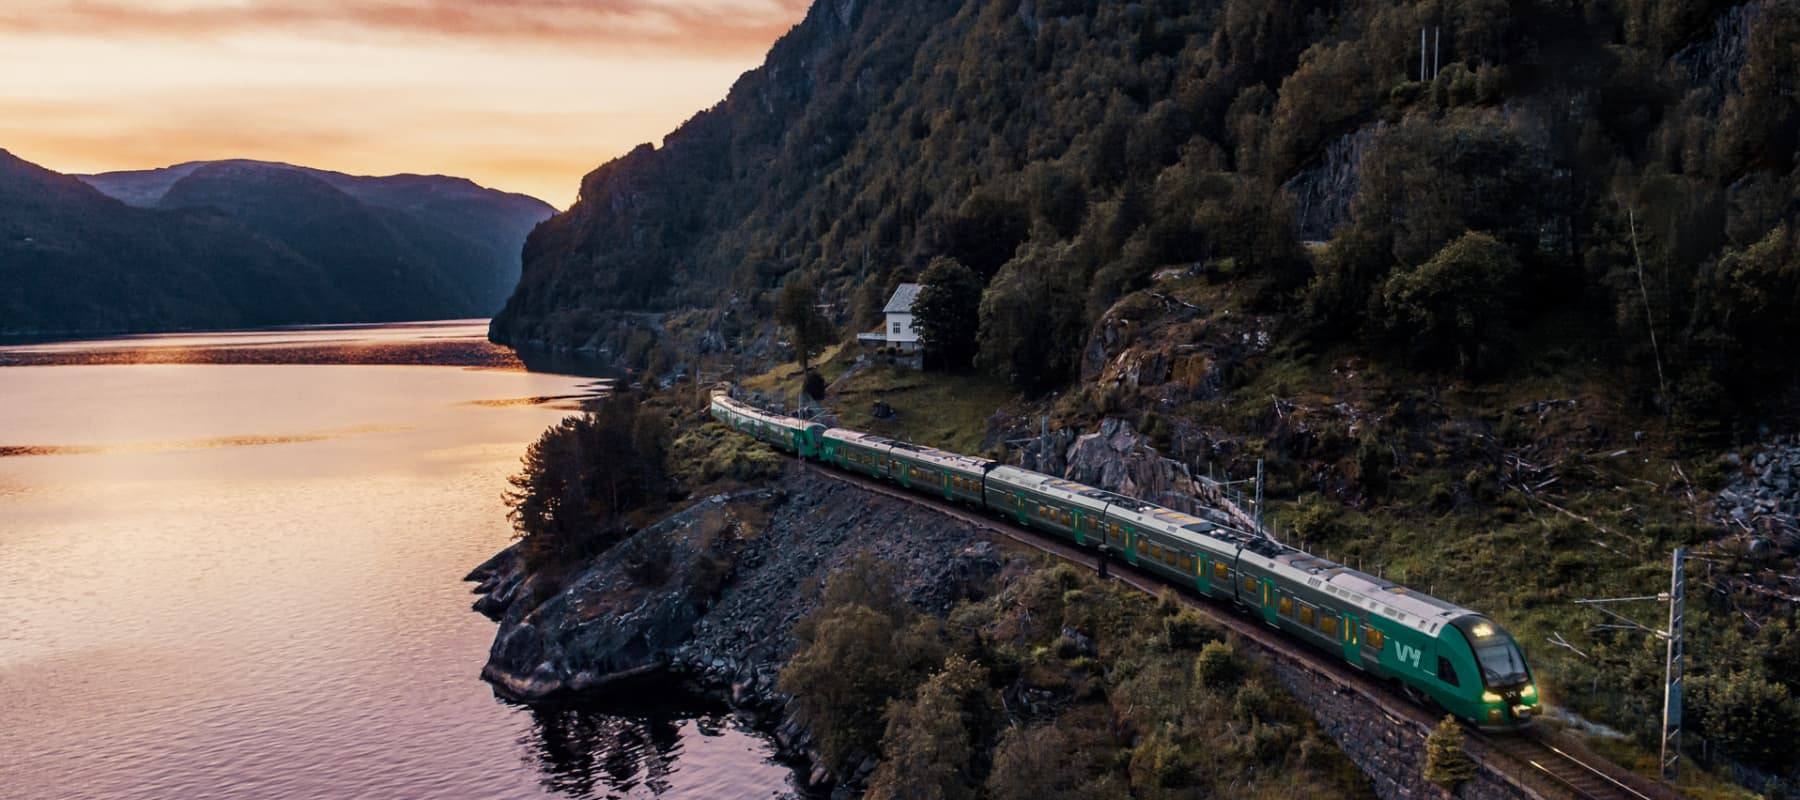
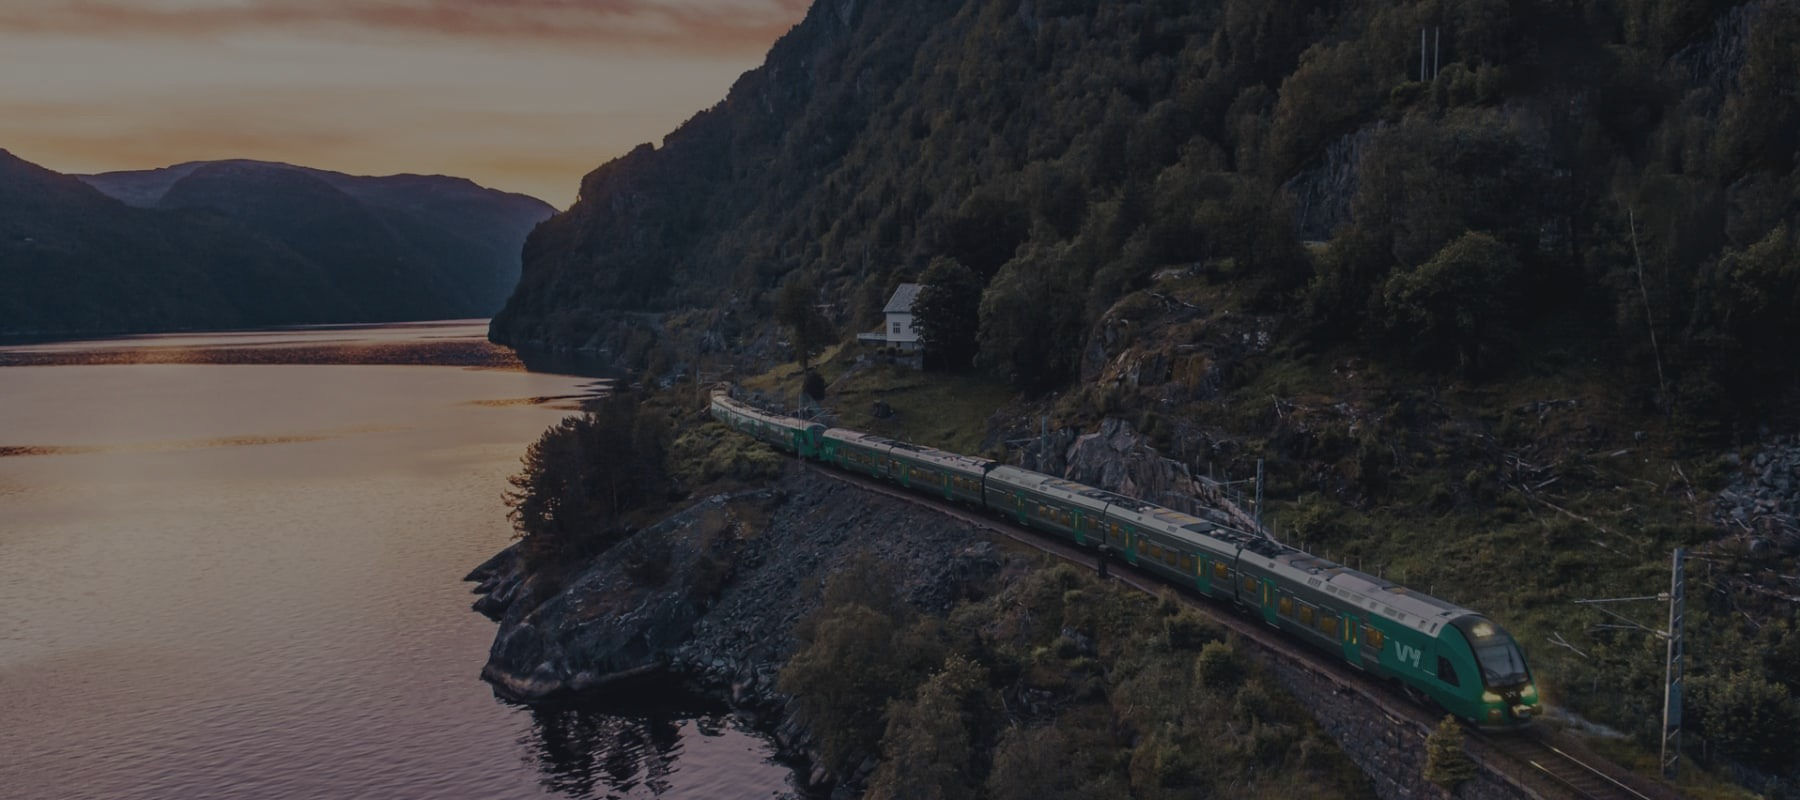
FAQ design bra for nå

diff --git a/ClientApp/src/app/FAQ/FAQ.component.html b/ClientApp/src/app/FAQ/FAQ.component.html
@@ -1,27 +1,29 @@
-<h2 class="text-center">FAQ</h2>
+<h2 class="text-center"><b>F</b>requently <b>A</b>sked <b>Q</b>uestions</h2>
 <h4 class="text-center text-muted">Her ser du mest stilte spørsmål og svar.</h4>
+<div>
+  <ngb-accordion [closeOthers]="true" id="static-1">
+    <ngb-panel id="static-{{question.id}}" *ngFor="let question of alleQuestions">
+      <ng-template ngbPanelHeader>
+        <div class="title">
 
-<ngb-accordion [closeOthers]="true" id="static-1">
-  <ngb-panel id="static-{{question.id}}" *ngFor="let question of alleQuestions">
-    <ng-template ngbPanelHeader>
-      <div class="title">
+          <button ngbPanelToggle class="btn w-100 text-left"><b>{{question.sporsmal}}</b><img src="assets/bilde/vy-logo.png" class="vy-logo"></button>
 
-        <button ngbPanelToggle class="btn w-100 text-left"><b>{{question.sporsmal}}</b><img src="assets/bilde/vy-logo.png" class="vy-logo"></button>
+        </div>
+      </ng-template>
+      <ng-template ngbPanelContent>
+        <div class="text-left">
+          {{question.svar}}
+        </div><br />
+        <span class="liker">
+          {{question.ratingOpp}} <button class="btn btn-success" [disabled]="clickedLike" (click)="endreRating(question.id, question.sporsmal, question.svar, question.ratingOpp, question.ratingNed, 0); clickedLike = true;">Like</button>
+        </span>
+        <span class="disliker">
+          {{question.ratingNed}} <button class="btn btn-danger" [disabled]="clickedDislike" (click)="endreRating(question.id, question.sporsmal, question.svar, question.ratingOpp, question.ratingNed, 1); clickedDislike = true;">Dislike</button>
+        </span>
+      </ng-template>
+    </ngb-panel>
+  </ngb-accordion>
+</div><br />
+      <h5 class="text-center text-muted">Noe annet du lurer på? Send inn gjerne ditt spørsmål <a [routerLink]="['/bruker']">her</a></h5>
 
-      </div>
-    </ng-template>
-    <ng-template ngbPanelContent>
-      <div class="text-left">
-        {{question.svar}}
-      </div><br />
-      <span class="liker">
-        {{question.ratingOpp}} <button class="btn btn-success" [disabled]="clickedLike" (click)="endreRating(question.id, question.sporsmal, question.svar, question.ratingOpp, question.ratingNed, 0); clickedLike = true;">Like</button>
-      </span>
-      <span class="disliker">
-        {{question.ratingNed}} <button class="btn btn-danger" [disabled]="clickedDislike" (click)="endreRating(question.id, question.sporsmal, question.svar, question.ratingOpp, question.ratingNed, 1); clickedDislike = true;">Dislike</button>
-      </span>
-    </ng-template>
-  </ngb-panel>
-</ngb-accordion>
-
-
+<img src="assets/bilde/vy-tog.jpg" class="bakgrunn">

diff --git a/ClientApp/src/app/home/home.component.css b/ClientApp/src/app/home/home.component.css
@@ -5,7 +5,7 @@ header.masthead {
   background-size: cover;
   padding-top: 8rem;
   padding-bottom: 8rem;
-  background-image: url(/assets/bilde/vy-tog.jpg);
+  background-image: url(/assets/bilde/norway-landscape.jpg);
   background-repeat: no-repeat;
   overflow: hidden;
   background-attachment: fixed;

diff --git a/ClientApp/src/app/FAQ/FAQ.component.css b/ClientApp/src/app/FAQ/FAQ.component.css
@@ -10,7 +10,6 @@
   float: right;
 }
 
-
 .liker {
   color: green;
 }
@@ -18,5 +17,13 @@
 .disliker {
   color: red;
 }
-/**/
+
+.bakgrunn {
+  margin-top: 25px;
+  position: center;
+  width: 100%;
+}
+
+
+
 
